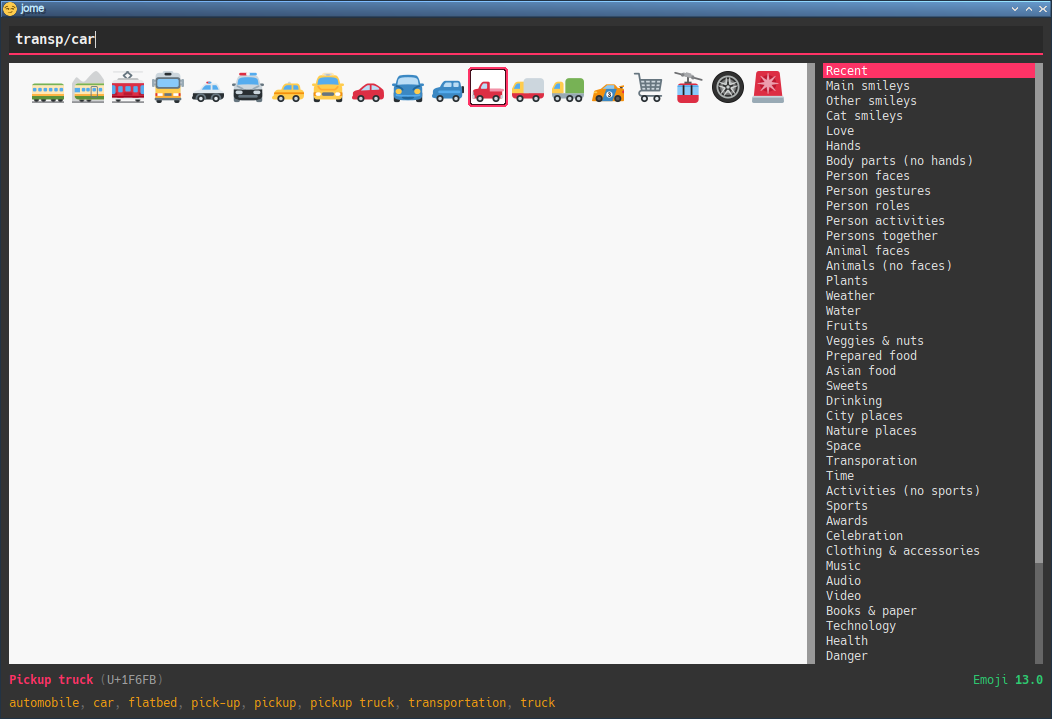
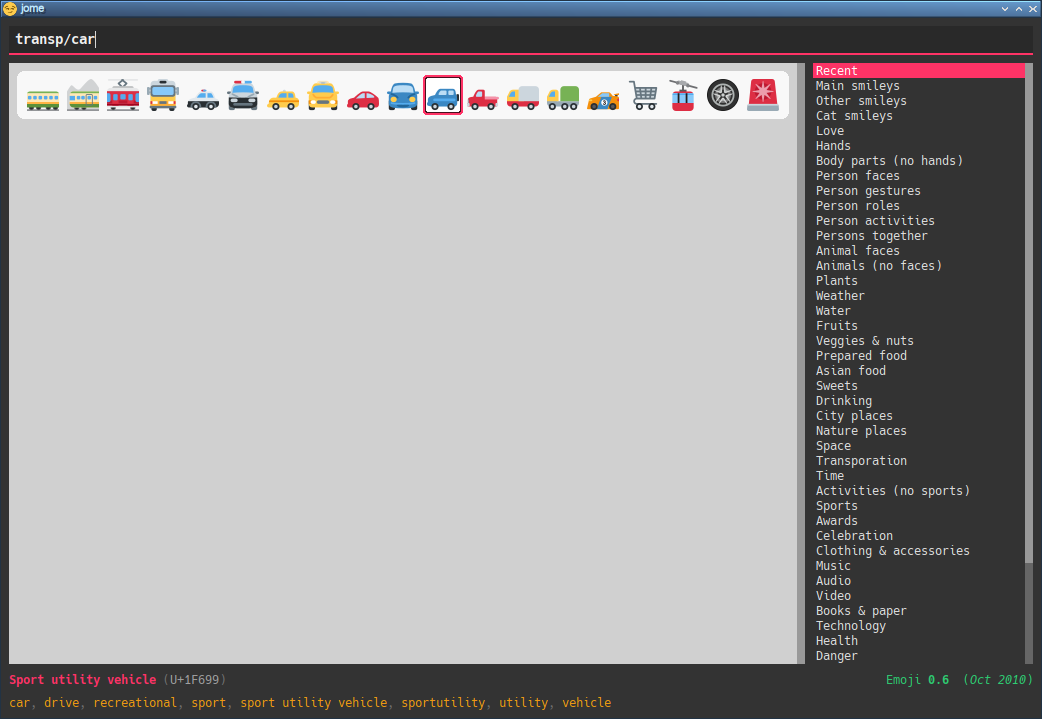
Improve look of emoji grid
This patch makes each category have its own rectangle to clearly delimit
the groups of emojis.

I believe this improves the UX when picking an emoji.

diff --git a/jome/q-emojis-widget.cpp b/jome/q-emojis-widget.cpp
@@ -45,7 +45,9 @@ QEmojisWidget::QEmojisWidget(QWidget * const parent, const EmojiDb& emojiDb, con
     this->setHorizontalScrollBarPolicy(Qt::ScrollBarAlwaysOff);
 
     // margins, 6 emojis, and scrollbar
-    this->setMinimumWidth(8 + (_emojiDb->emojiSizeInt() + 8) * 7 + 8 + 1);
+    this->setMinimumWidth(static_cast<int>(_gutter * 4 +
+                                           (_emojiDb->emojiSizeInt() + _gutter) * 6 +
+                                           _gutter + 1));
 }
 
 QEmojisWidget::~QEmojisWidget()
@@ -76,7 +78,7 @@ void QEmojisWidget::_selectedItemFlashTimerTimeout()
 
 void QEmojisWidget::_setGraphicsSceneStyle(QGraphicsScene& gs)
 {
-    gs.setBackgroundBrush(QColor {_darkBg ? "#202020" : "#f8f8f8"});
+    gs.setBackgroundBrush(QColor {_darkBg ? "#404040" : "#d0d0d0"});
 }
 
 QGraphicsPixmapItem *QEmojisWidget::_createSelectedGraphicsItem()
@@ -93,6 +95,20 @@ QGraphicsPixmapItem *QEmojisWidget::_createSelectedGraphicsItem()
     return graphicsItem;
 }
 
+void QEmojisWidget::_addRoundedRectToScene(QGraphicsScene& gs, const qreal y, const qreal height)
+{
+    QPainterPath path;
+
+    path.addRoundedRect(QRectF(0., 0., gs.width() - _gutter * 2, height), _gutter, _gutter);
+
+    const auto item = gs.addPath(path);
+
+    item->setPos(_gutter, y);
+    item->setPen(Qt::NoPen);
+    item->setBrush(QColor {_darkBg ? "#202020" : "#f8f8f8"});
+    item->setZValue(-2000.);
+}
+
 void QEmojisWidget::rebuild()
 {
     if (_allEmojisGraphicsSceneSelectedItem->scene()) {
@@ -103,27 +119,38 @@ void QEmojisWidget::rebuild()
     _allEmojisGraphicsScene.addItem(_allEmojisGraphicsSceneSelectedItem);
     _allEmojiGraphicsItems.clear();
     _catVertPositions.clear();
-    _allEmojisGraphicsScene.setSceneRect(0., 0., static_cast<qreal>(this->width()) - 8., 0.);
+
+    // scene width: width of this widget minus scrollbar width
+    _allEmojisGraphicsScene.setSceneRect(0., 0., static_cast<qreal>(this->width()) - _gutter, 0.);
 
     const auto rowFirstEmojiX = this->_rowFirstEmojiX(_allEmojisGraphicsScene);
-    qreal y = 8.;
+    qreal y = _gutter;
 
     for (const auto& cat : _emojiDb->cats()) {
-        auto item = _allEmojisGraphicsScene.addText(QString::fromStdString(cat->name()),
-                                                    QFont {"Hack, DejaVu Sans Mono, monospace",
-                                                           10, QFont::Bold});
-
-        item->setDefaultTextColor(QColor {_darkBg ? "#f8f8f8" : "#202020"});
-        item->setPos(rowFirstEmojiX, y);
         _catVertPositions[cat.get()] = y;
-        y += 24.;
+
+        const auto rectBeginY = y;
+
+        y += _gutter;
+
+        {
+            auto item = _allEmojisGraphicsScene.addText(QString::fromStdString(cat->name()),
+                                                        QFont {"Hack, DejaVu Sans Mono, monospace",
+                                                               10, QFont::Bold});
+
+            item->setDefaultTextColor(QColor {_darkBg ? "#f8f8f8" : "#202020"});
+            item->setPos(rowFirstEmojiX, y);
+        }
+
+        y += 32.;
         this->_addEmojisToGraphicsScene(cat->emojis(), _allEmojiGraphicsItems,
                                         _allEmojisGraphicsScene, y);
-        y += 8.;
+        y += _gutter;
+        this->_addRoundedRectToScene(_allEmojisGraphicsScene, rectBeginY, y - rectBeginY);
+        y += _gutter;
     }
 
-    y -= 8.;
-    _allEmojisGraphicsScene.setSceneRect(0., 0., static_cast<qreal>(this->width()) - 8., y);
+    _allEmojisGraphicsScene.setSceneRect(0., 0., static_cast<qreal>(this->width()) - _gutter, y);
 }
 
 void QEmojisWidget::showAllEmojis()
@@ -142,14 +169,23 @@ void QEmojisWidget::showFindResults(const std::vector<const Emoji *>& results)
     _findEmojisGraphicsScene.clear();
     _findEmojisGraphicsScene.addItem(_findEmojisGraphicsSceneSelectedItem);
     _curEmojiGraphicsItems.clear();
-    _findEmojisGraphicsScene.setSceneRect(0., 0., static_cast<qreal>(this->width()) - 8., 0.);
+
+    // scene width: width of this widget minus scrollbar width
+    _findEmojisGraphicsScene.setSceneRect(0., 0., static_cast<qreal>(this->width()) - _gutter, 0.);
 
     qreal y = 0.;
 
     if (!results.empty()) {
-        y = 8.;
+        y = _gutter;
+
+        const auto rectBeginY = y;
+
+        y += _gutter;
         this->_addEmojisToGraphicsScene(results, _curEmojiGraphicsItems,
                                         _findEmojisGraphicsScene, y);
+        y += _gutter;
+        this->_addRoundedRectToScene(_findEmojisGraphicsScene, rectBeginY, y - rectBeginY);
+        y += _gutter;
     }
 
     _findEmojisGraphicsScene.setSceneRect(0., 0., static_cast<qreal>(this->width()) - 8., y);

diff --git a/jome/q-emojis-widget.hpp b/jome/q-emojis-widget.hpp
@@ -65,6 +65,7 @@ private:
     void _emojiGraphicsItemHoverEntered(const QEmojiGraphicsItem& item);
     void _emojiGraphicsItemHoverLeaved(const QEmojiGraphicsItem& item);
     void _emojiGraphicsItemClicked(const QEmojiGraphicsItem& item);
+    void _addRoundedRectToScene(QGraphicsScene& gs, qreal y, qreal height);
 
 private slots:
     void _selectedItemFlashTimerTimeout();
@@ -72,12 +73,12 @@ private slots:
 private:
     qreal _rowFirstEmojiX(const QGraphicsScene& gs) const
     {
-        const auto availWidth = gs.width() - 8. * 2.;
-        const auto rowEmojiCount = std::floor((availWidth + 8.) / (_emojiDb->emojiSizeInt() + 8.));
+        const auto availWidth = gs.width() - _gutter * 4;
+        const auto rowEmojiCount = std::floor((availWidth + _gutter) / (_emojiDb->emojiSizeInt() + _gutter));
         const auto emojisTotalWidth = rowEmojiCount * _emojiDb->emojiSizeInt() +
-                                      (rowEmojiCount - 1) * 8.;
+                                      (rowEmojiCount - 1) * _gutter;
 
-        return std::floor((availWidth - emojisTotalWidth) / 2.) + 8.;
+        return std::floor((availWidth - emojisTotalWidth) / 2.) + _gutter * 2;
     }
 
     template <typename ContainerT>
@@ -87,7 +88,7 @@ private:
     {
         qreal col = 0.;
         const auto rowFirstEmojiX = this->_rowFirstEmojiX(gs);
-        const auto emojiWidthAndMargin = _emojiDb->emojiSizeInt() + 8.;
+        const auto emojiWidthAndMargin = _emojiDb->emojiSizeInt() + _gutter;
 
         for (auto& emoji : emojis) {
             auto emojiGraphicsItem = new QEmojiGraphicsItem {
@@ -108,7 +109,12 @@ private:
         if (col != 0.) {
             y += emojiWidthAndMargin;
         }
+
+        y -= _gutter;
     }
+
+private:
+    static constexpr qreal _gutter = 8.;
 
 private:
     const EmojiDb * const _emojiDb;
